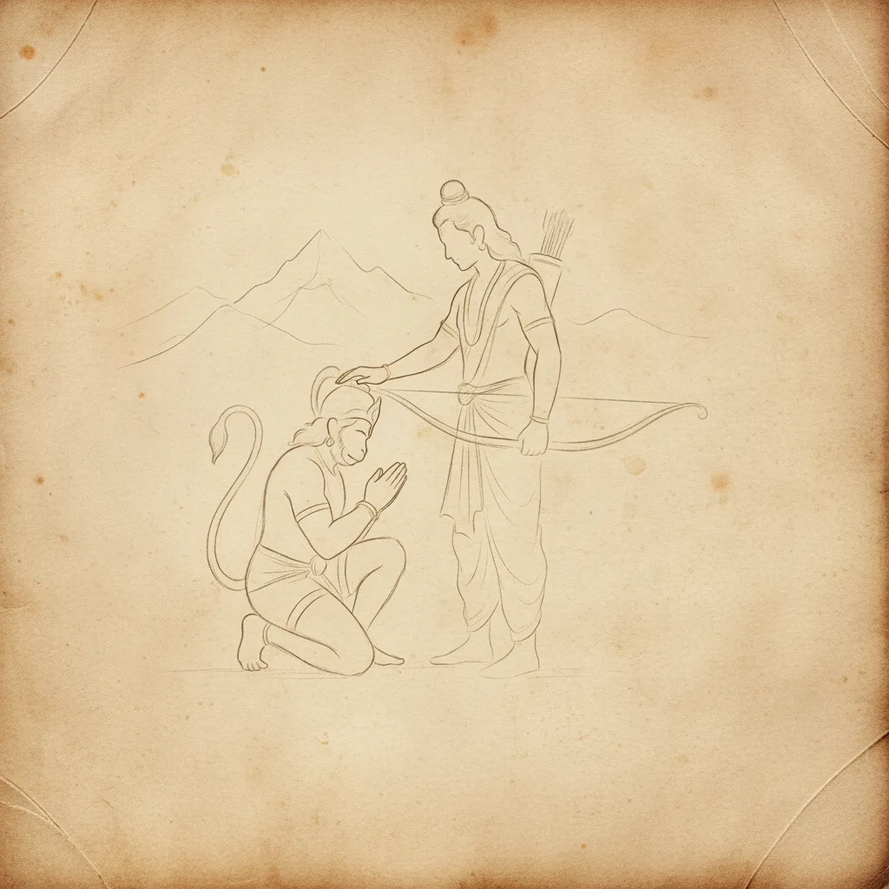
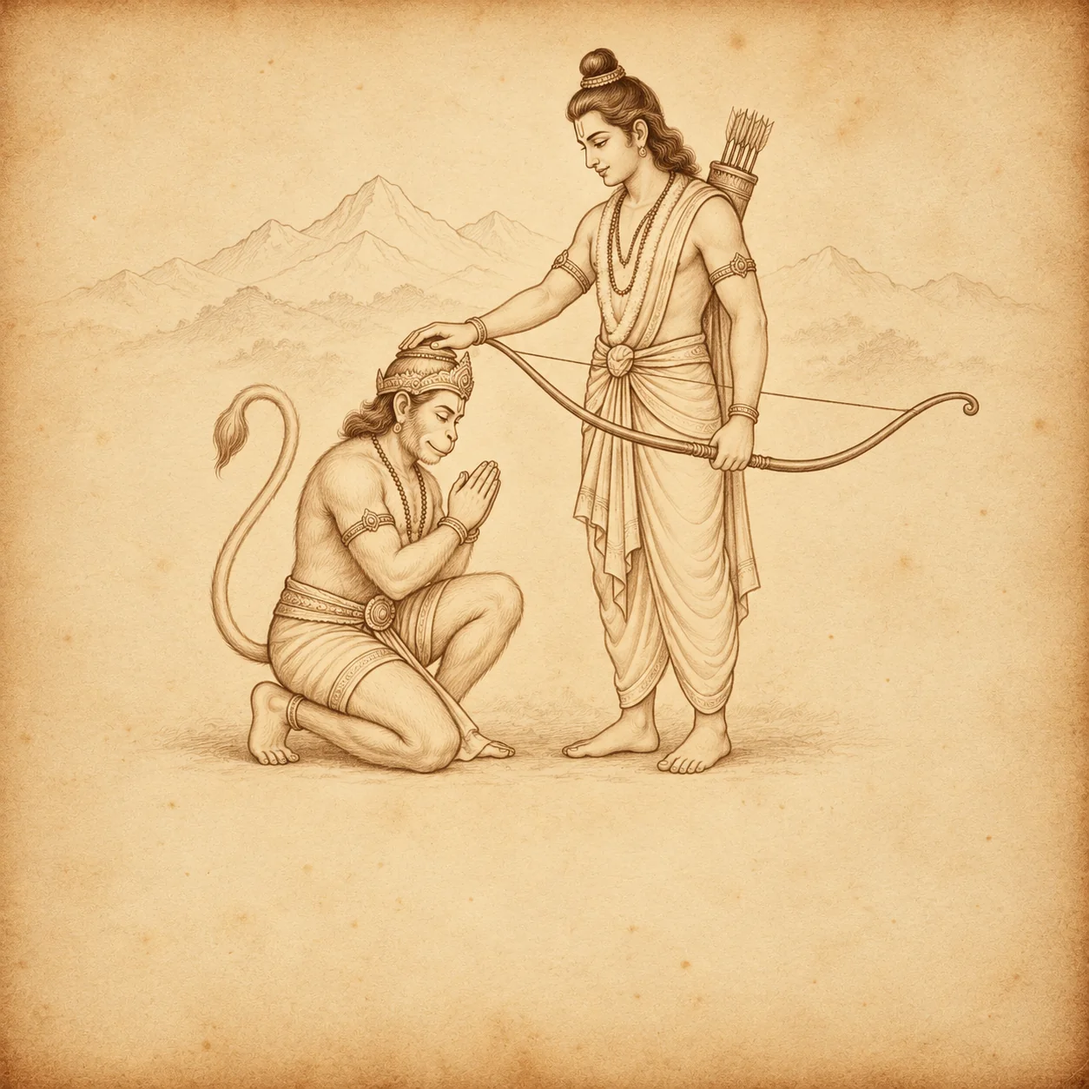
feat(artwork): serve Garud Puran art and reviewed corrections from R2 (#481)
* feat(artwork): serve Garud Puran art and reviewed corrections from R2

The nine Garud Puran paintings and the five 14 Oct artwork corrections were
the only reading art still bundled with require() (~2.5 MB). All 14 are now
published to R2 (immutable caching, byte-identical public responses) and
resolved through the existing content-hashed manifests:

- Garud Puran: new garud-puran folder in prepare-reading-backgrounds.mjs;
  garudPuranImages are RemoteBackground descriptors.
- Corrections: the approved files replace their slot sources (four
  backgrounds, Karni Mata banner); new hashes mean new cache files, so stale
  downloads of the old art are never reused. artworkCorrections.ts removed.
- ListingThumbImage crops R2 art from manifest dimensions.
- Guard test fails if reading artwork is require()d again (RULEBOOK §11.8).

* ci: cap the test job at 30 min so a hung step fails fast

The 2026-10-16 run stalled mid-suite and burned the runner's full 6h
ceiling before GitHub cancelled it. The suite completes in a few minutes;
a job-level timeout turns any future hang into a fast, legible failure.

---------

diff --git a/mobile/src/components/__tests__/BackgroundArtwork.test.tsx b/mobile/src/components/__tests__/BackgroundArtwork.test.tsx
@@ -8,13 +8,8 @@ import { ArtworkCaptureContext, createArtworkPaintBarrier } from '../ArtworkCapt
 import { readerIllustrationAsset } from '@/data/readerIllustrationAsset';
 import { backgroundAsset, bundledReadingFallback } from '@/data/backgroundAsset';
 import { evictBackgroundAsset, subscribeBackgroundAsset } from '@/utils/backgroundAssetCache';
-import { bundledArtworkCorrection } from '@/data/artworkCorrections';
-
-jest.mock('@assets/artwork-corrections/theerth-karni-mata-background.webp', () => 101);
-jest.mock('@assets/artwork-corrections/theerth-karni-mata-banner.webp', () => 102);
-jest.mock('@assets/artwork-corrections/hanuman-sita-background.webp', () => 103);
-jest.mock('@assets/artwork-corrections/ram-hanuman-background.webp', () => 104);
-jest.mock('@assets/artwork-corrections/rama-darbar-background.webp', () => 105);
+import { readFileSync } from 'fs';
+import path from 'path';
 
 jest.mock('@/utils/backgroundAssetCache', () => ({
   subscribeBackgroundAsset: jest.fn(),
@@ -26,6 +21,8 @@ jest.mock('@/data/readerIllustrationManifest.json', () => ({
   assets: { 'deity-krishna-bansuri': { hash: 'krishna-fixture', ext: 'webp', width: 960, height: 480 } },
 }));
 
+const approvedCorrections: { assets: Record<string, { sha256: string }> } = JSON.parse(readFileSync(
+  path.join(__dirname, '../../../../docs/evaluations/artwork-corrections-2026-10-14/approved.json'), 'utf8'));
 const source = backgroundAsset('backgrounds--source-vishnu-narayana');
 const other = backgroundAsset('backgrounds--deity-durga-lion');
 const neutral = backgroundAsset('backgrounds--reading-parchment-option2');
@@ -156,38 +153,19 @@ test('reader illustrations share deferred work and keep fallback until native de
   expect(StyleSheet.flatten(remote.props.style).opacity).toBe(1);
 });
 
+// The reviewed 14 Oct refinements ship from R2 under their own hashes: a new hash
+// is a new cache file, so stale downloads of the old art are never reused.
 test.each([
-  backgroundAsset('backgrounds--theerth-karni-mata'),
-  backgroundAsset('chalisa--Hanuman_sita'),
-  backgroundAsset('chalisa--Ram_hanuman'),
-  backgroundAsset('backgrounds--deity-rama-darbar'),
-  readerIllustrationAsset('theerth-karni-mata'),
-])('reviewed correction %s paints immediately without requesting stale cached art', corrected => {
-  act(() => { tree = TestRenderer.create(<CachedArtwork source={corrected} fallback={<Image source={99} />} />); });
-  expect(tree.root.findByType(Image).props.source).toBe(bundledArtworkCorrection(corrected));
-  expect(deferred).toHaveLength(0);
-  expect(subscribeBackgroundAsset).not.toHaveBeenCalled();
-});
-
-test('sharing a bundled correction waits for native paint, including after changing the source', async () => {
-  const capture = createArtworkPaintBarrier();
-  const corrected = backgroundAsset('backgrounds--theerth-karni-mata');
-  act(() => { tree = TestRenderer.create(<ArtworkCaptureContext.Provider value={capture}><CachedArtwork source={corrected} /></ArtworkCaptureContext.Provider>); });
-  let painted = false;
-  const waiting = capture.wait(1000).then(result => { painted = true; return result; });
-  await Promise.resolve();
-  expect(painted).toBe(false);
-  act(() => tree.root.findByType(Image).props.onLoad());
-  await expect(waiting).resolves.toBe(true);
-  const oldEvents = tree.root.findByType(Image).props;
-  act(() => tree.update(<ArtworkCaptureContext.Provider value={capture}><CachedArtwork source={readerIllustrationAsset('theerth-karni-mata')} /></ArtworkCaptureContext.Provider>));
-  painted = false;
-  const changed = capture.wait(1000).then(result => { painted = true; return result; });
-  await Promise.resolve();
-  expect(painted).toBe(false);
-  act(() => { oldEvents.onLoad(); oldEvents.onError(); });
-  await Promise.resolve();
-  expect(painted).toBe(false);
-  act(() => tree.root.findByType(Image).props.onLoad());
-  await expect(changed).resolves.toBe(true);
+  ['backgrounds--theerth-karni-mata', 'theerth-karni-mata-background.webp'],
+  ['chalisa--Hanuman_sita', 'hanuman-sita-background.webp'],
+  ['chalisa--Ram_hanuman', 'ram-hanuman-background.webp'],
+  ['backgrounds--deity-rama-darbar', 'rama-darbar-background.webp'],
+] as const)('reviewed correction %s is requested from R2 at its approved hash', (stem, file) => {
+  const hash = approvedCorrections.assets[file].sha256.slice(0, 16);
+  act(() => { tree = TestRenderer.create(<CachedArtwork source={backgroundAsset(stem)} />); });
+  expect(tree.root.findByType(Image).props.source).toBe(bundledReadingFallback);
+  act(() => deferred[0]());
+  expect(subscribeBackgroundAsset).toHaveBeenCalledWith(expect.objectContaining({
+    key: hash, subdir: 'reading-backgrounds', remoteUrl: expect.stringContaining(`/reading-backgrounds/${hash}.webp`),
+  }), expect.any(Function));
 });

diff --git a/mobile/src/components/ListingCard.tsx b/mobile/src/components/ListingCard.tsx
@@ -1,5 +1,5 @@
 import React, { useState } from 'react';
-import { Image, Pressable, StyleSheet, Text, View, type ImageSourcePropType } from 'react-native';
+import { Image, Pressable, StyleSheet, Text, View } from 'react-native';
 import { LinearGradient } from 'expo-linear-gradient';
 import { useTheme } from '@/theme/ThemeContext';
 import { elevation } from '@/theme/elevation';
@@ -7,6 +7,8 @@ import { fontFamilies } from '@/theme/typography';
 import { useGitaLanguage } from '@/data/gita/language';
 import { isLatinLang, meaningToken, pillTextStyle, titleFontByLang } from '@/utils/langType';
 import { coverRect } from '@/utils/coverRect';
+import { backgroundAspectRatio, type BackgroundImage } from '@/data/backgroundAsset';
+import CachedArtwork from './CachedArtwork';
 
 /**
  * The one content-listing card (design.md §82, RULEBOOK §3 "Listing cards").
@@ -136,25 +138,30 @@ export function ListingScope({ children, testID }: { children: string; testID?: 
 }
 
 /**
- * A bundled image cover-cropped into the listing thumb, keeping `focusX` (0–1
+ * A painting cover-cropped into the listing thumb, keeping `focusX` (0–1
  * across the painting) in view — wide paintings put their subject off-centre.
+ * Bundled images use their intrinsic size; published R2 paintings use the
+ * manifest dimensions, so the crop is known before anything downloads.
  */
-export function ListingThumbImage({ source, focusX = 0.5 }: { source: ImageSourcePropType; focusX?: number }) {
+export function ListingThumbImage({ source, focusX = 0.5 }: { source: BackgroundImage; focusX?: number }) {
   const [box, setBox] = useState({ width: 0, height: 0 });
-  const asset = Image.resolveAssetSource(source);
-  const rect = box.width && asset?.width ? coverRect(asset.width, asset.height, box.width, box.height, focusX) : null;
+  const asset = typeof source === 'number' ? Image.resolveAssetSource(source) : undefined;
+  const remoteRatio = backgroundAspectRatio(source);
+  const size = asset?.width && asset.height ? { width: asset.width, height: asset.height }
+    : remoteRatio ? { width: remoteRatio, height: 1 } : null;
+  const rect = box.width && size ? coverRect(size.width, size.height, box.width, box.height, focusX) : null;
+  // right/bottom 'auto' so the cached image's absolute-fill base cannot stretch it back to the box.
+  const placement = rect ? { position: 'absolute' as const, width: rect.width, height: rect.height, left: rect.left, top: rect.top, right: 'auto' as const, bottom: 'auto' as const } : null;
   return (
     <View
       style={StyleSheet.absoluteFillObject}
       onLayout={event => setBox({ width: event.nativeEvent.layout.width, height: event.nativeEvent.layout.height })}
     >
-      {rect ? (
-        <Image
-          source={source}
-          accessible={false}
-          resizeMode="stretch"
-          style={{ position: 'absolute', width: rect.width, height: rect.height, left: rect.left, top: rect.top }}
-        />
+      {placement && typeof source === 'number' ? (
+        <Image source={source} accessible={false} resizeMode="stretch" style={placement} />
+      ) : null}
+      {placement && typeof source !== 'number' ? (
+        <CachedArtwork source={source} style={StyleSheet.absoluteFill} imageStyle={placement} resizeMode="stretch" />
       ) : null}
     </View>
   );

diff --git a/mobile/src/components/__tests__/ListingCard.test.tsx b/mobile/src/components/__tests__/ListingCard.test.tsx
@@ -2,11 +2,13 @@ import React from 'react';
 import fs from 'fs';
 import path from 'path';
 import TestRenderer, { act } from 'react-test-renderer';
+import CachedArtwork from '../CachedArtwork';
 
 let mockLang = 'hi';
 jest.mock('react-native', () => ({
   Image: Object.assign((props: object) => require('react').createElement('Image', props), { resolveAssetSource: () => ({ width: 960, height: 480 }) }),
   Pressable: 'Pressable', Text: 'Text', View: 'View',
+  InteractionManager: { runAfterInteractions: () => ({ cancel: () => undefined }) },
   StyleSheet: { create: (x: unknown) => x, absoluteFillObject: { position: 'absolute' } },
   Platform: { OS: 'ios', select: (options: Record<string, unknown>) => options.ios ?? options.default },
 }));
@@ -86,6 +88,18 @@ test('a wide painting is cover-cropped around its focal point once the thumb is 
   const image = tree.root.findByType('Image' as any);
   expect(image.props.style).toMatchObject({ width: 230, height: 115 });
   expect(image.props.style.left).toBeCloseTo(46 - 0.68 * 230);
+});
+
+test('a published R2 painting is cropped from its manifest size before it downloads', () => {
+  const remote = { kind: 'remote-background', stem: 'garud-puran--cover' } as const;
+  let tree!: TestRenderer.ReactTestRenderer;
+  act(() => { tree = TestRenderer.create(<ListingThumbImage source={remote} focusX={0.68} />); });
+  trees.push(tree);
+  act(() => tree.root.findAllByType('View' as any)[0].props.onLayout({ nativeEvent: { layout: { width: 92, height: 115 } } }));
+  const art = tree.root.findByType(CachedArtwork);
+  expect(art.props.source).toBe(remote);
+  expect(art.props.imageStyle).toMatchObject({ width: 230, height: 115, right: 'auto', bottom: 'auto' });
+  expect(art.props.imageStyle.left).toBeCloseTo(46 - 0.68 * 230);
 });
 
 test('every story cover fills a listing thumb without showing its reviewed blank band', () => {

diff --git a/mobile/src/data/__tests__/artworkDelivery.jest.test.ts b/mobile/src/data/__tests__/artworkDelivery.jest.test.ts
@@ -1,0 +1,27 @@
+import fs from 'node:fs';
+import path from 'node:path';
+
+// RULEBOOK §11.8: reading artwork ships from R2. These folders are publishing
+// sources for the manifests; only the neutral paper is a bundled fallback.
+const R2_ART = /(?:^|\/)(?:backgrounds|chalisa|gita|shiva-strotam|garud-puran|reader-illustrations|kids-stories|artwork-corrections)\/[^'"]+\.(?:webp|png|jpe?g)$/;
+const ALLOWED = new Set(['@assets/backgrounds/reading-parchment-option2.webp']);
+const mobile = path.join(__dirname, '../../..');
+
+function sourceFiles(dir: string): string[] {
+  return fs.readdirSync(dir, { withFileTypes: true }).flatMap(entry => {
+    const full = path.join(dir, entry.name);
+    if (entry.isDirectory()) return entry.name === '__tests__' || entry.name === 'node_modules' ? [] : sourceFiles(full);
+    return /\.(?:ts|tsx)$/.test(entry.name) ? [full] : [];
+  });
+}
+
+test('no reading artwork is bundled with require(), apart from the paper fallback', () => {
+  const offenders: string[] = [];
+  for (const file of [...sourceFiles(path.join(mobile, 'src')), ...sourceFiles(path.join(mobile, 'assets'))]) {
+    for (const [, target] of fs.readFileSync(file, 'utf8').matchAll(/require\(\s*['"]([^'"]+)['"]\s*\)/g)) {
+      const resolved = target.startsWith('.') ? path.relative(mobile, path.resolve(path.dirname(file), target)) : target;
+      if (R2_ART.test(resolved) && !ALLOWED.has(target)) offenders.push(`${path.relative(mobile, file)} → ${target}`);
+    }
+  }
+  expect(offenders).toEqual([]);
+});

diff --git a/mobile/assets/garud-puran/index.ts b/mobile/assets/garud-puran/index.ts
@@ -1,16 +1,21 @@
 import type { GarudPuranArtId } from '../../src/data/garud-puran';
+import { backgroundAsset, type RemoteBackground } from '../../src/data/backgroundAsset';
 
-/** Each scene is pinned to its own story; no random rotation. */
-export const garudPuranImages: Record<GarudPuranArtId, number> = {
-  cover: require('./cover.webp'),
-  daan: require('./daan.webp'),
-  babhruvahana: require('./babhruvahana.webp'),
-  'five-pretas': require('./five-pretas.webp'),
-  viravahana: require('./viravahana.webp'),
-  'sita-ancestors': require('./sita-ancestors.webp'),
-  ancestors: require('./ancestors.webp'),
-  yama: require('./yama.webp'),
-  vaitarani: require('./vaitarani.webp'),
+/**
+ * Each scene is pinned to its own story; no random rotation. The paintings
+ * here are publishing sources for R2 (`prepare-reading-backgrounds.mjs`),
+ * resolved through the background manifest rather than bundled.
+ */
+export const garudPuranImages: Record<GarudPuranArtId, RemoteBackground> = {
+  cover: backgroundAsset('garud-puran--cover'),
+  daan: backgroundAsset('garud-puran--daan'),
+  babhruvahana: backgroundAsset('garud-puran--babhruvahana'),
+  'five-pretas': backgroundAsset('garud-puran--five-pretas'),
+  viravahana: backgroundAsset('garud-puran--viravahana'),
+  'sita-ancestors': backgroundAsset('garud-puran--sita-ancestors'),
+  ancestors: backgroundAsset('garud-puran--ancestors'),
+  yama: backgroundAsset('garud-puran--yama'),
+  vaitarani: backgroundAsset('garud-puran--vaitarani'),
 };
 
 /**

diff --git a/mobile/src/utils/__tests__/shareBackgroundReady.test.tsx b/mobile/src/utils/__tests__/shareBackgroundReady.test.tsx
@@ -5,11 +5,8 @@ import { ThemeProvider } from '@/theme/ThemeContext';
 import { ShareProvider, useShare } from '@/utils/shareVerse';
 import { subscribeBackgroundAsset } from '@/utils/backgroundAssetCache';
 import { createArtworkPaintBarrier } from '@/components/ArtworkCaptureContext';
-import { bundledArtworkCorrection } from '@/data/artworkCorrections';
 
-// Must stay a CDN-only plate: a stem with a bundled correction (artworkCorrections.ts)
-// never requests the remote image, which is what the first test waits on. Rama
-// Darbar was the fixture until #467 bundled its corrected art.
+// Any published plate works: every background resolves through R2 and the cache.
 const mockRemoteStem = 'backgrounds--deity-krishna-bansuri';
 const mockCapture = jest.fn(() => Promise.resolve('file:///tmp/card.png'));
 jest.mock('react-native-view-shot', () => ({ captureRef: (...args: unknown[]) => mockCapture(...args as []) }));
@@ -66,10 +63,6 @@ async function begin() {
   act(() => tree.root.findAll(n => n.props.accessibilityLabel === 'trigger' && typeof n.props.onPress === 'function')[0].props.onPress());
   await settle();
 }
-
-test('the fixture plate is still fetched remotely, not bundled', () => {
-  expect(bundledArtworkCorrection({ kind: 'remote-background', stem: mockRemoteStem })).toBeNull();
-});
 
 test('capture waits for both remote background layers to paint, not only the layout or download', async () => {
   await begin();

diff --git a/mobile/src/components/CachedArtwork.tsx b/mobile/src/components/CachedArtwork.tsx
@@ -3,7 +3,6 @@ import { Image, InteractionManager, StyleSheet, View, type ImageResizeMode, type
 import { NavigationContext } from '@react-navigation/native';
 import { bundledReadingFallback } from '@/data/backgroundAsset';
 import { artworkRequest, type ArtworkImage } from '@/data/artworkAsset';
-import { bundledArtworkCorrection } from '@/data/artworkCorrections';
 import { evictBackgroundAsset, subscribeBackgroundAsset } from '@/utils/backgroundAssetCache';
 import { ArtworkCaptureContext } from './ArtworkCaptureContext';
 
@@ -25,7 +24,7 @@ export default function CachedArtwork({ source, style, resizeMode = 'cover', fal
   const captureDone = useRef<(() => void) | undefined>(undefined);
   const fallbackLoaded = useRef(false);
   const remoteFailed = useRef(false);
-  const bundledSource = bundledArtworkCorrection(source) ?? (typeof source === 'number' ? source : null);
+  const bundledSource = typeof source === 'number' ? source : null;
   const visibleBundledSource = useRef(bundledSource);
   visibleBundledSource.current = bundledSource;
   const request = bundledSource === null ? artworkRequest(source) : null;

diff --git a/mobile/src/data/__tests__/garudPuran.jest.test.ts b/mobile/src/data/__tests__/garudPuran.jest.test.ts
@@ -59,3 +59,16 @@ test('bundled artwork exactly matches the approved Style 3 review set', () => {
     expect(asset.dimensions).toEqual([960, 480]);
   }
 });
+
+test('every Garud Puran painting ships from R2 through a published background entry, never the bundle', () => {
+  const manifest = JSON.parse(fs.readFileSync(path.join(__dirname, '../backgroundAssetManifest.json'), 'utf8'));
+  const index = fs.readFileSync(path.join(__dirname, '../../../assets/garud-puran/index.ts'), 'utf8');
+  expect(index).not.toMatch(/require\(/);
+  for (const [artId, image] of Object.entries(garudPuranImages)) {
+    expect(image).toEqual({ kind: 'remote-background', stem: `garud-puran--${artId}` });
+    const entry = manifest.assets[image.stem];
+    const source = fs.readFileSync(path.join(__dirname, `../../../assets/garud-puran/${artId}.webp`));
+    expect(entry.hash).toBe(createHash('sha256').update(source).digest('hex').slice(0, 16));
+    expect(entry.width / entry.height).toBe(2);
+  }
+});

diff --git a/design.md b/design.md
@@ -333,7 +333,7 @@ and cancel when the final viewer leaves. Completed valid artwork has no expiry, 
 automatic eviction. Text and controls never await artwork; native decode errors preserve the
 fallback and evict damaged files for recovery.
 
-Five reviewed correction WebPs are bundled in `mobile/assets/artwork-corrections/` within a 1.25 MiB budget. They correct Karni Mata's background and colored banner, remove the Hanuman–Sita corner mark, and recreate Rama blessing Hanuman and Rama Darbar. `artworkCorrections.ts` resolves these before stale CDN cache entries, including offline use; unpublished CDN hashes are not activated. Other artwork retains the existing remote delivery. The Vishnu background uses the published sepia Narayana plate; colored banners remain separate. Full-strength previews retain source detail while normal backgrounds receive the parchment overlay.
+Five reviewed corrections (14 Oct) correct Karni Mata's background and colored banner, remove the Hanuman–Sita corner mark, and recreate Rama blessing Hanuman and Rama Darbar. Since 16 Oct they are the publishing sources for their own slots (`backgrounds/theerth-karni-mata`, `backgrounds/deity-rama-darbar`, `chalisa/Hanuman_sita`, `chalisa/Ram_hanuman`, `reader-illustrations/theerth-karni-mata`) and ship from R2 like all other artwork; nothing is bundled. Their new hashes are new cache files, so a device that downloaded the old art fetches the correction once. `scripts/verify-artwork-corrections.mjs` checks the sources and manifest hashes against the approval record in `docs/evaluations/artwork-corrections-2026-10-14/`. The Vishnu background uses the published sepia Narayana plate; colored banners remain separate. Full-strength previews retain source detail while normal backgrounds receive the parchment overlay.
 
 Paged sections share a single screen-level paper image instead of duplicating it per list cell.
 
@@ -3727,7 +3727,7 @@ Nine bundled 960×480 WebP paintings follow current-main PR #449: fine warm outl
 
 The source comparison and illustration manifest live in `docs/content/garud-puran/`. `scripts/preview-garud-puran.py` builds `preview.html` from the exact bundled JSON for bilingual reading and artwork review; it is an editorial preview, not a replacement for screenshots of the native app. Technical test and device evidence belongs in `INTEGRATION.md` there. Content contract: RULEBOOK §31.
 
-The approved final set matches the saved Style 3 template and is recorded in `docs/content/garud-puran/design-review/style3-final/manifest.json`. The reader uses `BackgroundLayer(readingParchment)`; the index sits on plain parchment like every §82 listing; saved progress uses Reading / Page and sharing uses the shared prose export.
+The approved final set matches the saved Style 3 template and is recorded in `docs/content/garud-puran/design-review/style3-final/manifest.json`. The nine paintings ship from R2 as `reading-backgrounds` entries `garud-puran--<artId>` (sources in `mobile/assets/garud-puran/`, published by `prepare-reading-backgrounds.mjs`); none is bundled, and the paper shows until each one loads. The reader uses `BackgroundLayer(readingParchment)`; the index sits on plain parchment like every §82 listing; saved progress uses Reading / Page and sharing uses the shared prose export.
 
 ## 82. Content listing card (`ListingCard`)
 
@@ -3748,7 +3748,7 @@ The approved final set matches the saved Style 3 template and is recorded in `do
 ```
 
 - Shell: `cardActiveFrom → cardActiveTo` gradient, 1 px `cardActiveBorder`, radius `lg`, padding 14, gap 14, `elevation.lifted`; pressed opacity 0.86.
-- Thumb: 92 wide, `alignSelf: stretch`, minimum height 115 (4:5), radius `sm`, `parchmentSoft` while loading. The art fills it cover-cropped: `KidsStoryArt fill` (top-anchored so the reviewed blank band never shows), `ComicArt fill` (only the panel's own frame), `ListingThumbImage` (bundled image with a `focusX` focal point). Each unit shows its own key scene for its topic.
+- Thumb: 92 wide, `alignSelf: stretch`, minimum height 115 (4:5), radius `sm`, `parchmentSoft` while loading. The art fills it cover-cropped: `KidsStoryArt fill` (top-anchored so the reviewed blank band never shows), `ComicArt fill` (only the panel's own frame), `ListingThumbImage` (a bundled image or an R2 background with a `focusX` focal point; R2 art is cropped from its manifest width/height before it downloads, showing the paper fallback until then). Each unit shows its own key scene for its topic.
 - Eyebrow (optional): the sequence only — `प्रसंग N`, `पाठ N`, `दिन N`. `listingEyebrow` 13/20 bold script face (1.54× — the earlier 13/18 sat below the 1.45× Indic floor and sliced the top of ि in `दिन N`) in `saffronDeep`; English uses the uppercase Inter `sectionLabel` pill style (`EPISODE 1`).
 - Title: the reading language only, `numberOfLines={2}`, `ink`. `listingTitle` 17/25 bold script face; English `listingTitleLatin` 16/22 Cormorant italic.
 - Description (optional): one line, `inkSoft`, `listingBody` 12/18 (English `listingBodyLatin` 13/18), script body face. Copy is at most 32 characters per language and is written to fit a 360 dp phone's ~148 pt column; it is never left to truncation.

diff --git a/wiki/integrations/reading-artwork.md b/wiki/integrations/reading-artwork.md
@@ -1,16 +1,20 @@
 ---
 title: Reading artwork on R2
 type: integration
-sources: [mobile/src/screens/DailyBhaktiScreen.tsx, mobile/src/data/backgroundAsset.ts, mobile/src/data/backgroundAssetManifest.json, mobile/src/data/readerIllustrationAsset.ts, mobile/src/data/readerIllustrationManifest.json, mobile/src/data/readerIllustrationAliases.json, mobile/src/data/artworkAsset.ts, mobile/src/data/assetManifest.ts, mobile/src/data/backgrounds.ts, mobile/src/data/kathaBackgrounds.ts, mobile/src/utils/backgroundAssetCache.ts, mobile/src/components/CachedArtwork.tsx, mobile/src/components/BackgroundArtwork.tsx, mobile/src/components/BackgroundLayer.tsx, mobile/src/components/ReadingArtwork.tsx, mobile/src/components/ReadingBanner.tsx, mobile/src/components/readingBannerFrames.json, mobile/src/components/ProseReadingCard.tsx, mobile/src/components/ProseParagraph.tsx, scripts/prepare-reading-backgrounds.mjs, scripts/prepare-reader-illustrations.mjs, scripts/upload-r2-assets.mjs, docs/content-parity/reader-illustrations-art-style.md, docs/content-parity/reader-illustration-style3-prompt.md]
-last_verified_date: 2026-10-14
+sources: [mobile/assets/garud-puran/index.ts, scripts/verify-artwork-corrections.mjs, mobile/src/data/__tests__/artworkDelivery.jest.test.ts, mobile/src/screens/DailyBhaktiScreen.tsx, mobile/src/data/backgroundAsset.ts, mobile/src/data/backgroundAssetManifest.json, mobile/src/data/readerIllustrationAsset.ts, mobile/src/data/readerIllustrationManifest.json, mobile/src/data/readerIllustrationAliases.json, mobile/src/data/artworkAsset.ts, mobile/src/data/assetManifest.ts, mobile/src/data/backgrounds.ts, mobile/src/data/kathaBackgrounds.ts, mobile/src/utils/backgroundAssetCache.ts, mobile/src/components/CachedArtwork.tsx, mobile/src/components/BackgroundArtwork.tsx, mobile/src/components/BackgroundLayer.tsx, mobile/src/components/ReadingArtwork.tsx, mobile/src/components/ReadingBanner.tsx, mobile/src/components/readingBannerFrames.json, mobile/src/components/ProseReadingCard.tsx, mobile/src/components/ProseParagraph.tsx, scripts/prepare-reading-backgrounds.mjs, scripts/prepare-reader-illustrations.mjs, scripts/upload-r2-assets.mjs, docs/content-parity/reader-illustrations-art-style.md, docs/content-parity/reader-illustration-style3-prompt.md]
+last_verified_date: 2026-10-16
 confidence: high
 status: current
 ---
 
 ## Summary
 
-Forty-five reading assets (43 original paintings and two approved Option 2 assets) are published
-to R2 under content-hashed keys. The app bundles only the 3,102-byte neutral paper from this set. Prose, navigation and controls
+Fifty-four reading assets (43 original paintings, two approved Option 2 assets and the nine Garud
+Puran paintings added 16 Oct) are published to R2 under content-hashed keys. The five reviewed
+14 Oct corrections (four backgrounds plus the Karni Mata banner) were bundled overrides until
+16 Oct; they now replace the source files in their own slots and ship from R2 under new hashes,
+so stale downloads of the old art are never reused. `scripts/verify-artwork-corrections.mjs`
+checks them; `artworkDelivery.jest.test.ts` fails if any reading artwork is `require()`d again. The app bundles only the 3,102-byte neutral paper from this set. Prose, navigation and controls
 render immediately; artwork resolves independently after interactions.
 
 Reader illustrations are now a separate local asset category with their own typed descriptors,

diff --git a/wiki/subsystems/readers.md b/wiki/subsystems/readers.md
@@ -230,4 +230,4 @@ User review corrected the initial portrait layout against current-main PR #449 (
 
 ### Garud Puran final Style 3 integration (2026-10-12)
 
-After user approval, nine exact Style 3 WebPs (1,433,814 bytes total) were bundled locally; the approval and hashes are pinned in `docs/content/garud-puran/artwork/manifest.json`. Current-main `ReadingArtwork` and `BackgroundLayer(readingParchment)` provide the common banner/divider/paper treatment. `HomeStackNavigator` registers both routes lazily, the generated route graph warms the reader from the index, and search yields per reading. Prose sharing carries source context without truncating the explanation; saved progress is labelled Reading / Page. See `docs/content/garud-puran/INTEGRATION.md` for final verification. No R2 or OTA publication.
+After user approval, nine exact Style 3 WebPs (1,433,814 bytes total) were bundled locally; the approval and hashes are pinned in `docs/content/garud-puran/artwork/manifest.json`. Current-main `ReadingArtwork` and `BackgroundLayer(readingParchment)` provide the common banner/divider/paper treatment. `HomeStackNavigator` registers both routes lazily, the generated route graph warms the reader from the index, and search yields per reading. Prose sharing carries source context without truncating the explanation; saved progress is labelled Reading / Page. See `docs/content/garud-puran/INTEGRATION.md` for final verification. **Since 16 Oct the nine paintings ship from R2**, not the bundle: they are `reading-backgrounds` entries `garud-puran--<artId>` (folder added to `prepare-reading-backgrounds.mjs`), `garudPuranImages` holds `RemoteBackground` descriptors, and `ListingThumbImage` crops R2 art from manifest dimensions. See [[integrations/reading-artwork]].

diff --git a/wiki/log.md b/wiki/log.md
@@ -998,3 +998,13 @@ Added a no-image `Send as text` row (verse lines + meaning, or the selected pros
 ## [2026-10-13] ingest | More → Share the App invite copy refreshed
 
 Rewrote `APP_SHARE_INVITE` (hi/en/gu/kn) from five launch-era bullets to seven covering shipped surfaces: Ramayan, kids' stories, vrat katha/puja vidhi/tirth, Ask Vedansh. Store-gated Vastu and widgets deliberately omitted. design.md §37 synced; `shareLinks.test.ts` pins seven bullets per language and the link line.
+
+## [2026-10-16] ingest | Bundled reading artwork moved to R2
+
+The Garud Puran paintings (9, ~1.4 MB) and the five 14 Oct artwork corrections (~1.1 MB) were the
+only reading art still bundled with `require()`. Uploaded all 14 to R2 with immutable caching and
+verified byte-identical public responses, then activated their hashes: Garud Puran became
+`garud-puran--*` background entries, the corrections replaced their slot sources, and the
+`artworkCorrections.ts` override was removed. Updated [[integrations/reading-artwork]] and
+[[subsystems/readers]]. Remaining bundled images are UI/offline by design (Storybook and More
+icons, widget gallery plates, celestial chakra, the paper fallback).
